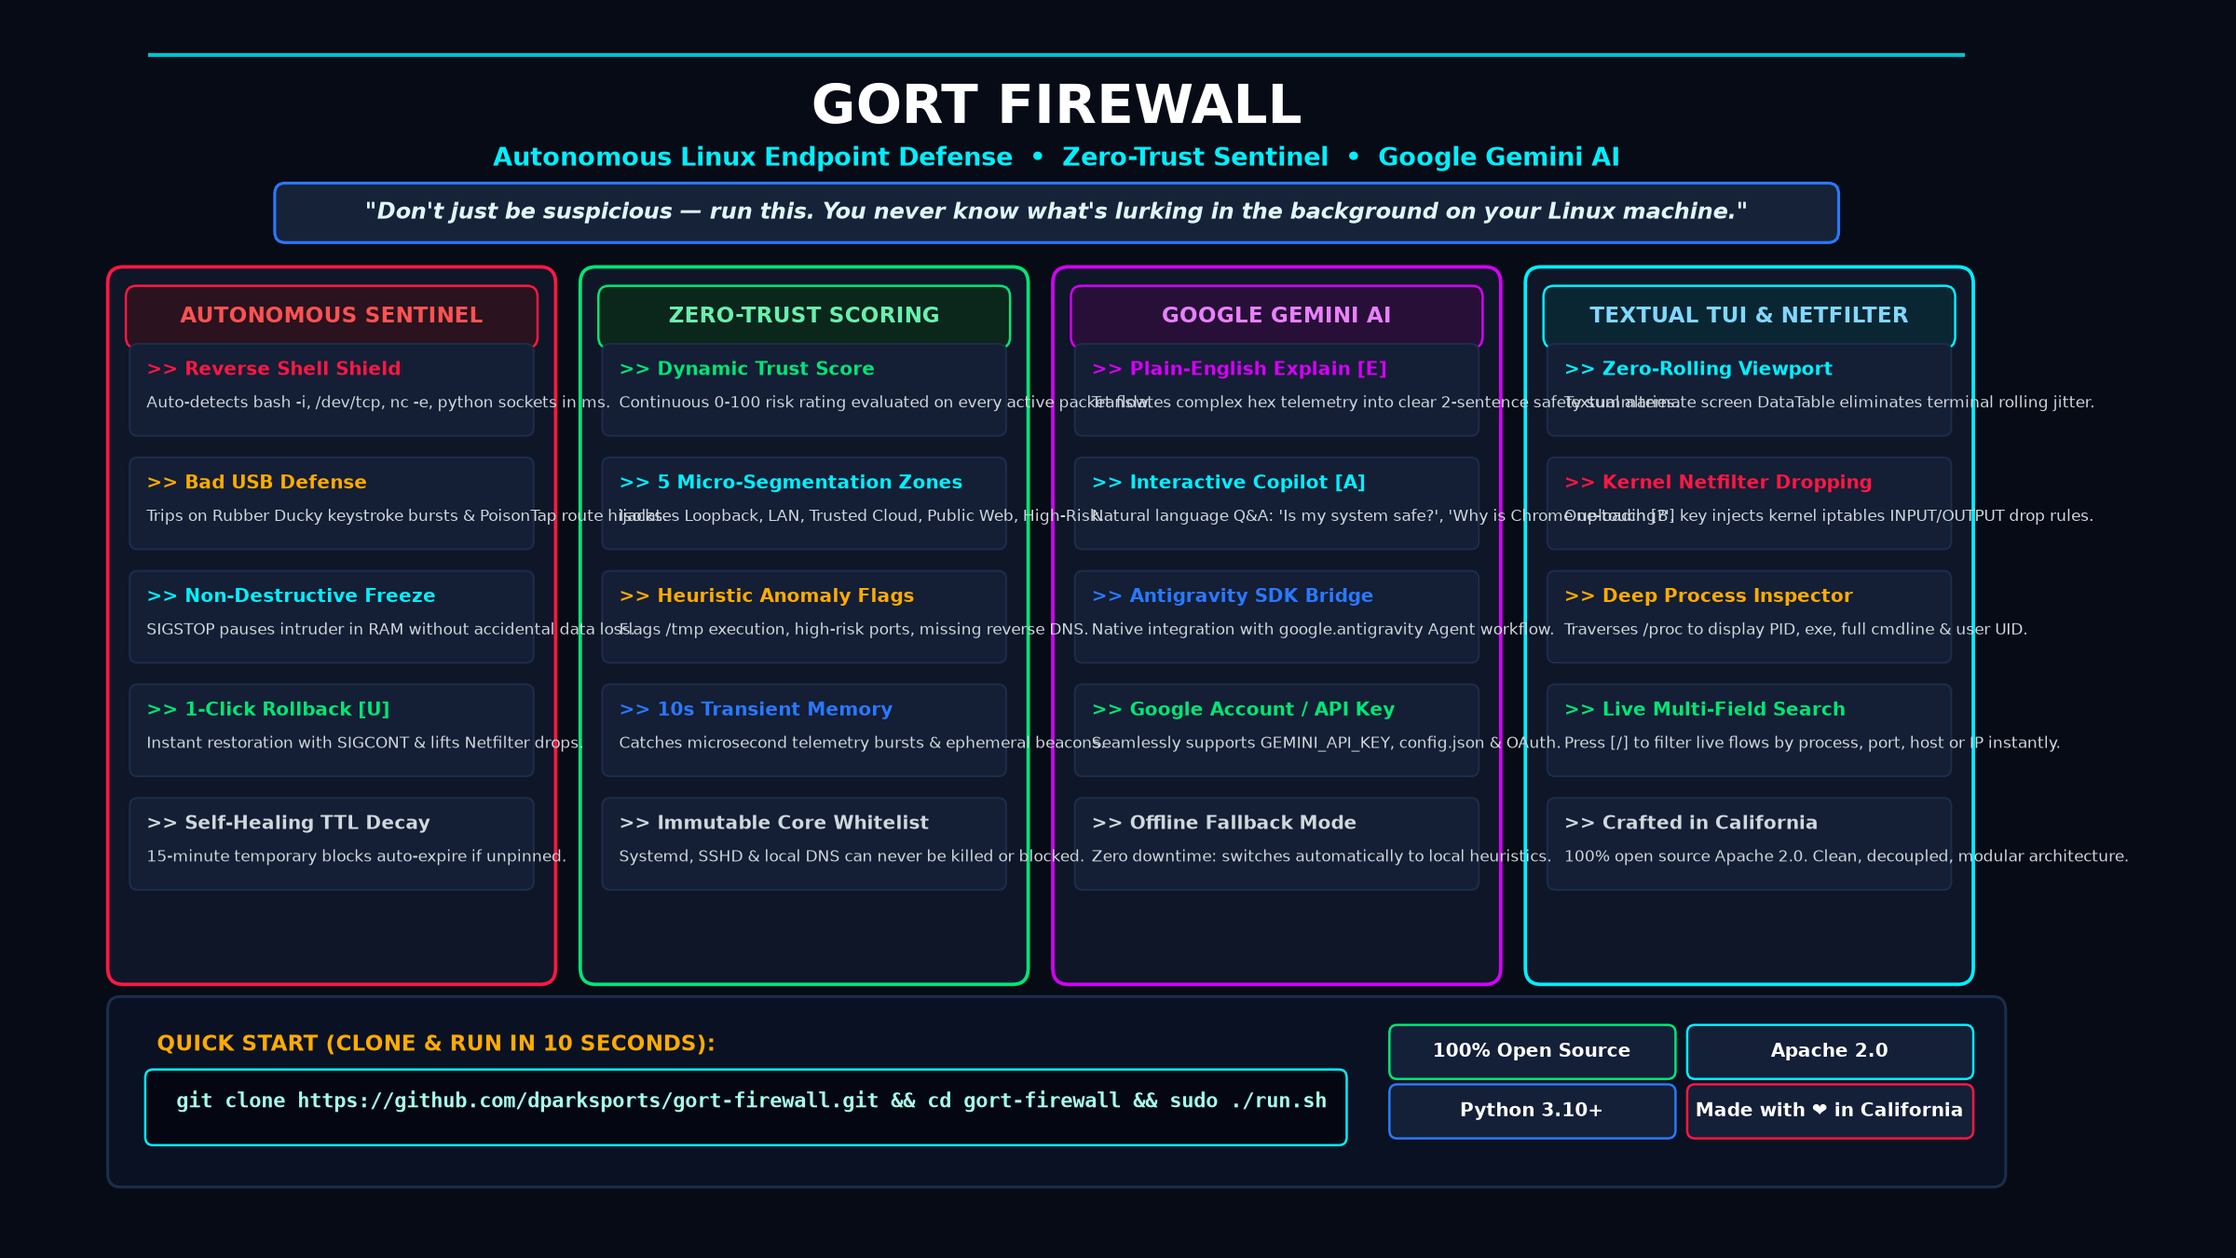
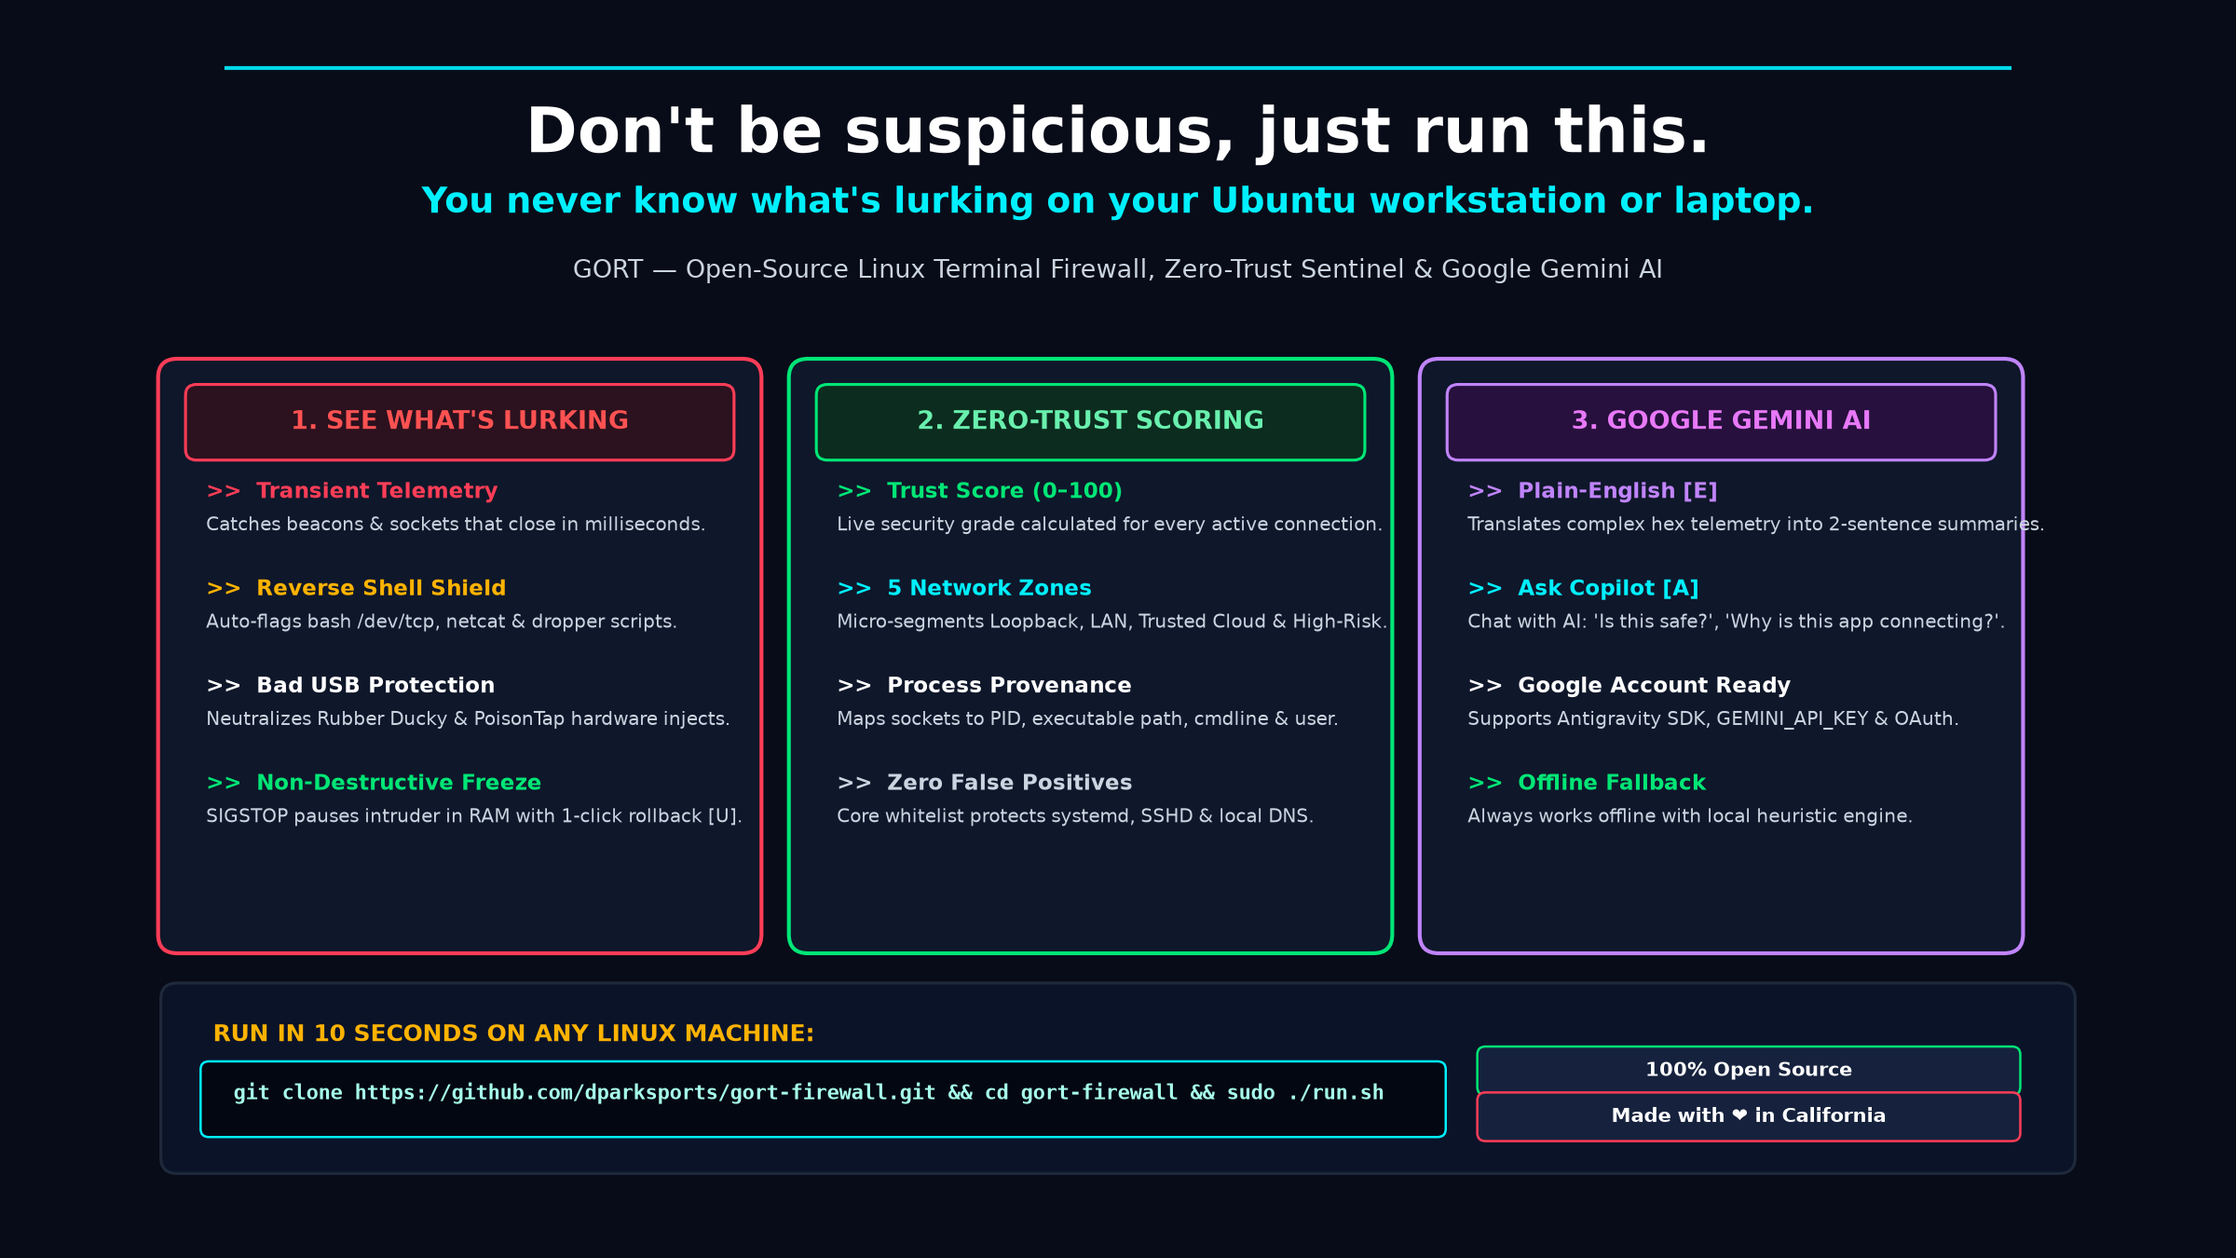
docs: simplify LinkedIn infographic focusing on core user hook

Changed region(s): [[0.0312, 0.0311, 0.9375, 0.9333]]

diff --git a/generate_linkedin_infographic.py b/generate_linkedin_infographic.py
@@ -1,212 +1,155 @@
 #!/usr/bin/env python3
 """
-Generate a professional-grade LinkedIn Infographic for Gort Firewall.
-Outputs: linkedin_infographic.png (1920x1080, 16:9 4K-ready presentation asset)
+Generate a simplified, high-impact corporate LinkedIn Infographic for Gort Firewall.
+Centered on the core theme:
+"Don't be suspicious, just run this. You never know what's lurking on your Ubuntu workstation or laptop."
+Outputs: linkedin_infographic.png (1920x1080, 16:9 4K presentation asset)
 """
 
 import matplotlib.pyplot as plt
 import matplotlib.patches as patches
 
-def draw_linkedin_infographic():
-    # 1920x1080 16:9 ultra-high clarity layout
+def draw_simplified_infographic():
     fig, ax = plt.subplots(figsize=(16, 9), dpi=150)
-    fig.patch.set_facecolor('#070b16')  # Ultra dark obsidian
-    ax.set_facecolor('#070b16')
+    fig.patch.set_facecolor('#080c18')  # Deep obsidian
+    ax.set_facecolor('#080c18')
     ax.set_xlim(0, 1600)
     ax.set_ylim(0, 900)
     ax.axis('off')
 
-    # Color System
+    # Color Palette
     cyan = '#00f0ff'
-    neon_blue = '#2979ff'
     emerald = '#00e676'
-    amber = '#ffab00'
-    coral = '#ff1744'
-    purple = '#d500f9'
+    coral = '#ff3d57'
+    purple = '#c084fc'
+    amber = '#ffb300'
     text_white = '#ffffff'
-    text_sub = '#cfd8dc'
-    text_muted = '#78909c'
-    card_bg = '#0e1628'
-    card_border = '#1c2d4a'
-    card_inner = '#141e34'
+    text_sub = '#cbd5e1'
+    card_bg = '#0f172a'
+    card_border = '#1e293b'
 
-    # --- TOP BRANDING HEADER ---
-    # Top Accent Glow Line
-    ax.plot([100, 1500], [875, 875], color=cyan, linewidth=2, alpha=0.8)
+    # Top Brand Bar
+    ax.plot([150, 1450], [865, 865], color=cyan, linewidth=2, alpha=0.9)
 
-    # Main Logo / Title
-    ax.text(800, 835, "GORT FIREWALL", fontsize=28, fontweight='bold',
+    # Main Headline (User's One-Liner in Large Bold Typography)
+    ax.text(800, 815, "Don't be suspicious, just run this.", fontsize=32, fontweight='bold',
             color=text_white, ha='center', va='center', fontfamily='sans-serif')
-    ax.text(800, 798, "Autonomous Linux Endpoint Defense  •  Zero-Trust Sentinel  •  Google Gemini AI",
-            fontsize=13, fontweight='bold', color=cyan, ha='center', va='center')
+    ax.text(800, 765, "You never know what's lurking on your Ubuntu workstation or laptop.",
+            fontsize=18, fontweight='bold', color=cyan, ha='center', va='center')
 
-    # Hook Banner (Highlighted Callout)
-    hook_box = patches.FancyBboxPatch((200, 740), 1200, 36, boxstyle="round,pad=4,rounding_size=8",
-                                     facecolor='#162238', edgecolor=neon_blue, linewidth=1.5)
-    ax.add_patch(hook_box)
-    ax.text(800, 758, "\"Don't just be suspicious — run this. You never know what's lurking in the background on your Linux machine.\"",
-            fontsize=11.5, fontweight='bold', fontstyle='italic', color='#e0f7fa', ha='center', va='center')
+    # Sub-tagline
+    ax.text(800, 715, "GORT — Open-Source Linux Terminal Firewall, Zero-Trust Sentinel & Google Gemini AI",
+            fontsize=13, color=text_sub, ha='center', va='center')
 
-    # --- 4 KEY PILLAR CARDS ---
-    card_w = 330
-    card_h = 515
-    y_pos = 195
-    spacing = 365
-    start_x = 75
+    # --- 3 SIMPLE, CLEAN CARDS ---
+    card_w = 420
+    card_h = 420
+    y_pos = 220
+    spacing = 460
+    start_x = 110
 
-    # Card 1: Autonomous Sentinel & Bad USB
+    # Card 1: What's Lurking?
     c1_x = start_x + 0 * spacing
-    c1 = patches.FancyBboxPatch((c1_x, y_pos), card_w, card_h, boxstyle="round,pad=8,rounding_size=12",
-                                facecolor=card_bg, edgecolor=coral, linewidth=1.8)
+    c1 = patches.FancyBboxPatch((c1_x, y_pos), card_w, card_h, boxstyle="round,pad=10,rounding_size=14",
+                                facecolor=card_bg, edgecolor=coral, linewidth=2)
     ax.add_patch(c1)
 
-    # Header 1
-    h1 = patches.FancyBboxPatch((c1_x + 10, y_pos + card_h - 48), card_w - 20, 38,
-                                boxstyle="round,pad=4,rounding_size=8",
-                                facecolor='#2a121e', edgecolor=coral, linewidth=1.2)
+    h1 = patches.FancyBboxPatch((c1_x + 15, y_pos + card_h - 60), card_w - 30, 46,
+                                boxstyle="round,pad=5,rounding_size=8",
+                                facecolor='#2c111e', edgecolor=coral, linewidth=1.5)
     ax.add_patch(h1)
-    ax.text(c1_x + card_w/2, y_pos + card_h - 29, "AUTONOMOUS SENTINEL", fontsize=11, fontweight='bold',
+    ax.text(c1_x + card_w/2, y_pos + card_h - 37, "1. SEE WHAT'S LURKING", fontsize=13, fontweight='bold',
             color='#ff5252', ha='center', va='center')
 
-    c1_bullets = [
-        ("Reverse Shell Shield", "Auto-detects bash -i, /dev/tcp, nc -e, python sockets in ms.", coral),
-        ("Bad USB Defense", "Trips on Rubber Ducky keystroke bursts & PoisonTap route hijacks.", amber),
-        ("Non-Destructive Freeze", "SIGSTOP pauses intruder in RAM without accidental data loss.", cyan),
-        ("1-Click Rollback [U]", "Instant restoration with SIGCONT & lifts Netfilter drops.", emerald),
-        ("Self-Healing TTL Decay", "15-minute temporary blocks auto-expire if unpinned.", text_sub),
+    bullets_1 = [
+        ("Transient Telemetry", "Catches beacons & sockets that close in milliseconds.", coral),
+        ("Reverse Shell Shield", "Auto-flags bash /dev/tcp, netcat & dropper scripts.", amber),
+        ("Bad USB Protection", "Neutralizes Rubber Ducky & PoisonTap hardware injects.", text_white),
+        ("Non-Destructive Freeze", "SIGSTOP pauses intruder in RAM with 1-click rollback [U].", emerald),
     ]
-
-    for idx, (title, desc, clr) in enumerate(c1_bullets):
-        by = y_pos + card_h - 90 - (idx * 84)
-        b_box = patches.FancyBboxPatch((c1_x + 12, by - 24), card_w - 24, 62,
-                                       boxstyle="round,pad=3,rounding_size=6",
-                                       facecolor=card_inner, edgecolor=card_border, linewidth=1)
-        ax.add_patch(b_box)
-        ax.text(c1_x + 22, by + 18, f">> {title}", fontsize=9.5, fontweight='bold', color=clr)
-        ax.text(c1_x + 22, by - 6, desc, fontsize=8, color=text_sub, wrap=True)
+    for idx, (title, desc, clr) in enumerate(bullets_1):
+        by = y_pos + card_h - 105 - (idx * 72)
+        ax.text(c1_x + 25, by + 12, f">>  {title}", fontsize=11, fontweight='bold', color=clr)
+        ax.text(c1_x + 25, by - 12, desc, fontsize=9.5, color=text_sub)
 
     # Card 2: Zero-Trust Continuous Verification
     c2_x = start_x + 1 * spacing
-    c2 = patches.FancyBboxPatch((c2_x, y_pos), card_w, card_h, boxstyle="round,pad=8,rounding_size=12",
-                                facecolor=card_bg, edgecolor=emerald, linewidth=1.8)
+    c2 = patches.FancyBboxPatch((c2_x, y_pos), card_w, card_h, boxstyle="round,pad=10,rounding_size=14",
+                                facecolor=card_bg, edgecolor=emerald, linewidth=2)
     ax.add_patch(c2)
 
-    h2 = patches.FancyBboxPatch((c2_x + 10, y_pos + card_h - 48), card_w - 20, 38,
-                                boxstyle="round,pad=4,rounding_size=8",
-                                facecolor='#0b261b', edgecolor=emerald, linewidth=1.2)
+    h2 = patches.FancyBboxPatch((c2_x + 15, y_pos + card_h - 60), card_w - 30, 46,
+                                boxstyle="round,pad=5,rounding_size=8",
+                                facecolor='#0b2c1e', edgecolor=emerald, linewidth=1.5)
     ax.add_patch(h2)
-    ax.text(c2_x + card_w/2, y_pos + card_h - 29, "ZERO-TRUST SCORING", fontsize=11, fontweight='bold',
+    ax.text(c2_x + card_w/2, y_pos + card_h - 37, "2. ZERO-TRUST SCORING", fontsize=13, fontweight='bold',
             color='#69f0ae', ha='center', va='center')
 
-    c2_bullets = [
-        ("Dynamic Trust Score", "Continuous 0-100 risk rating evaluated on every active packet flow.", emerald),
-        ("5 Micro-Segmentation Zones", "Isolates Loopback, LAN, Trusted Cloud, Public Web, High-Risk.", cyan),
-        ("Heuristic Anomaly Flags", "Flags /tmp execution, high-risk ports, missing reverse DNS.", amber),
-        ("10s Transient Memory", "Catches microsecond telemetry bursts & ephemeral beacons.", neon_blue),
-        ("Immutable Core Whitelist", "Systemd, SSHD & local DNS can never be killed or blocked.", text_sub),
+    bullets_2 = [
+        ("Trust Score (0–100)", "Live security grade calculated for every active connection.", emerald),
+        ("5 Network Zones", "Micro-segments Loopback, LAN, Trusted Cloud & High-Risk.", cyan),
+        ("Process Provenance", "Maps sockets to PID, executable path, cmdline & user.", text_white),
+        ("Zero False Positives", "Core whitelist protects systemd, SSHD & local DNS.", text_sub),
     ]
-
-    for idx, (title, desc, clr) in enumerate(c2_bullets):
-        by = y_pos + card_h - 90 - (idx * 84)
-        b_box = patches.FancyBboxPatch((c2_x + 12, by - 24), card_w - 24, 62,
-                                       boxstyle="round,pad=3,rounding_size=6",
-                                       facecolor=card_inner, edgecolor=card_border, linewidth=1)
-        ax.add_patch(b_box)
-        ax.text(c2_x + 22, by + 18, f">> {title}", fontsize=9.5, fontweight='bold', color=clr)
-        ax.text(c2_x + 22, by - 6, desc, fontsize=8, color=text_sub, wrap=True)
+    for idx, (title, desc, clr) in enumerate(bullets_2):
+        by = y_pos + card_h - 105 - (idx * 72)
+        ax.text(c2_x + 25, by + 12, f">>  {title}", fontsize=11, fontweight='bold', color=clr)
+        ax.text(c2_x + 25, by - 12, desc, fontsize=9.5, color=text_sub)
 
     # Card 3: Google Gemini AI Copilot
     c3_x = start_x + 2 * spacing
-    c3 = patches.FancyBboxPatch((c3_x, y_pos), card_w, card_h, boxstyle="round,pad=8,rounding_size=12",
-                                facecolor=card_bg, edgecolor=purple, linewidth=1.8)
+    c3 = patches.FancyBboxPatch((c3_x, y_pos), card_w, card_h, boxstyle="round,pad=10,rounding_size=14",
+                                facecolor=card_bg, edgecolor=purple, linewidth=2)
     ax.add_patch(c3)
 
-    h3 = patches.FancyBboxPatch((c3_x + 10, y_pos + card_h - 48), card_w - 20, 38,
-                                boxstyle="round,pad=4,rounding_size=8",
-                                facecolor='#270f38', edgecolor=purple, linewidth=1.2)
+    h3 = patches.FancyBboxPatch((c3_x + 15, y_pos + card_h - 60), card_w - 30, 46,
+                                boxstyle="round,pad=5,rounding_size=8",
+                                facecolor='#27103d', edgecolor=purple, linewidth=1.5)
     ax.add_patch(h3)
-    ax.text(c3_x + card_w/2, y_pos + card_h - 29, "GOOGLE GEMINI AI", fontsize=11, fontweight='bold',
-            color='#ea80fc', ha='center', va='center')
+    ax.text(c3_x + card_w/2, y_pos + card_h - 37, "3. GOOGLE GEMINI AI", fontsize=13, fontweight='bold',
+            color='#e879f9', ha='center', va='center')
 
-    c3_bullets = [
-        ("Plain-English Explain [E]", "Translates complex hex telemetry into clear 2-sentence safety summaries.", purple),
-        ("Interactive Copilot [A]", "Natural language Q&A: 'Is my system safe?', 'Why is Chrome uploading?'.", cyan),
-        ("Antigravity SDK Bridge", "Native integration with google.antigravity Agent workflow.", neon_blue),
-        ("Google Account / API Key", "Seamlessly supports GEMINI_API_KEY, config.json & OAuth.", emerald),
-        ("Offline Fallback Mode", "Zero downtime: switches automatically to local heuristics.", text_sub),
+    bullets_3 = [
+        ("Plain-English [E]", "Translates complex hex telemetry into 2-sentence summaries.", purple),
+        ("Ask Copilot [A]", "Chat with AI: 'Is this safe?', 'Why is this app connecting?'.", cyan),
+        ("Google Account Ready", "Supports Antigravity SDK, GEMINI_API_KEY & OAuth.", text_white),
+        ("Offline Fallback", "Always works offline with local heuristic engine.", emerald),
     ]
+    for idx, (title, desc, clr) in enumerate(bullets_3):
+        by = y_pos + card_h - 105 - (idx * 72)
+        ax.text(c3_x + 25, by + 12, f">>  {title}", fontsize=11, fontweight='bold', color=clr)
+        ax.text(c3_x + 25, by - 12, desc, fontsize=9.5, color=text_sub)
 
-    for idx, (title, desc, clr) in enumerate(c3_bullets):
-        by = y_pos + card_h - 90 - (idx * 84)
-        b_box = patches.FancyBboxPatch((c3_x + 12, by - 24), card_w - 24, 62,
-                                       boxstyle="round,pad=3,rounding_size=6",
-                                       facecolor=card_inner, edgecolor=card_border, linewidth=1)
-        ax.add_patch(b_box)
-        ax.text(c3_x + 22, by + 18, f">> {title}", fontsize=9.5, fontweight='bold', color=clr)
-        ax.text(c3_x + 22, by - 6, desc, fontsize=8, color=text_sub, wrap=True)
+    # --- BOTTOM CLEAN COMMAND BAR ---
+    bot_box = patches.FancyBboxPatch((110, 55), 1380, 125, boxstyle="round,pad=8,rounding_size=12",
+                                     facecolor='#0b1329', edgecolor=card_border, linewidth=1.5)
+    ax.add_patch(bot_box)
 
-    # Card 4: Modern Modular Textual TUI & Netfilter
-    c4_x = start_x + 3 * spacing
-    c4 = patches.FancyBboxPatch((c4_x, y_pos), card_w, card_h, boxstyle="round,pad=8,rounding_size=12",
-                                facecolor=card_bg, edgecolor=cyan, linewidth=1.8)
-    ax.add_patch(c4)
+    ax.text(140, 145, "RUN IN 10 SECONDS ON ANY LINUX MACHINE:", fontsize=12, fontweight='bold', color=amber)
 
-    h4 = patches.FancyBboxPatch((c4_x + 10, y_pos + card_h - 48), card_w - 20, 38,
-                                boxstyle="round,pad=4,rounding_size=8",
-                                facecolor='#0b2633', edgecolor=cyan, linewidth=1.2)
-    ax.add_patch(h4)
-    ax.text(c4_x + card_w/2, y_pos + card_h - 29, "TEXTUAL TUI & NETFILTER", fontsize=11, fontweight='bold',
-            color='#80d8ff', ha='center', va='center')
-
-    c4_bullets = [
-        ("Zero-Rolling Viewport", "Textual alternate screen DataTable eliminates terminal rolling jitter.", cyan),
-        ("Kernel Netfilter Dropping", "One-touch [B] key injects kernel iptables INPUT/OUTPUT drop rules.", coral),
-        ("Deep Process Inspector", "Traverses /proc to display PID, exe, full cmdline & user UID.", amber),
-        ("Live Multi-Field Search", "Press [/] to filter live flows by process, port, host or IP instantly.", emerald),
-        ("Crafted in California", "100% open source Apache 2.0. Clean, decoupled, modular architecture.", text_sub),
-    ]
-
-    for idx, (title, desc, clr) in enumerate(c4_bullets):
-        by = y_pos + card_h - 90 - (idx * 84)
-        b_box = patches.FancyBboxPatch((c4_x + 12, by - 24), card_w - 24, 62,
-                                       boxstyle="round,pad=3,rounding_size=6",
-                                       facecolor=card_inner, edgecolor=card_border, linewidth=1)
-        ax.add_patch(b_box)
-        ax.text(c4_x + 22, by + 18, f">> {title}", fontsize=9.5, fontweight='bold', color=clr)
-        ax.text(c4_x + 22, by - 6, desc, fontsize=8, color=text_sub, wrap=True)
-
-    # --- BOTTOM QUICK-LAUNCH & BADGE FOOTER ---
-    footer_box = patches.FancyBboxPatch((75, 45), 1450, 125, boxstyle="round,pad=8,rounding_size=10",
-                                        facecolor='#0a1122', edgecolor=card_border, linewidth=1.5)
-    ax.add_patch(footer_box)
-
-    ax.text(105, 138, "QUICK START (CLONE & RUN IN 10 SECONDS):", fontsize=11, fontweight='bold', color=amber)
-
-    cmd_box = patches.FancyBboxPatch((100, 72), 920, 48, boxstyle="round,pad=4,rounding_size=6",
-                                     facecolor='#040711', edgecolor=cyan, linewidth=1.2)
+    cmd_box = patches.FancyBboxPatch((135, 78), 900, 48, boxstyle="round,pad=4,rounding_size=6",
+                                     facecolor='#030712', edgecolor=cyan, linewidth=1.2)
     ax.add_patch(cmd_box)
-    ax.text(120, 96, "git clone https://github.com/dparksports/gort-firewall.git && cd gort-firewall && sudo ./run.sh",
+    ax.text(155, 102, "git clone https://github.com/dparksports/gort-firewall.git && cd gort-firewall && sudo ./run.sh",
             fontsize=10.5, fontfamily='monospace', fontweight='bold', color='#a7ffeb')
 
-    # Badges on bottom right
+    # Badges
     badges = [
         ("100% Open Source", emerald),
-        ("Apache 2.0", cyan),
-        ("Python 3.10+", neon_blue),
         ("Made with ❤ in California", coral)
     ]
     for i, (b_text, b_color) in enumerate(badges):
-        bx = 1060 + (i % 2) * 230
-        by = 120 if i < 2 else 76
-        b_rect = patches.FancyBboxPatch((bx, by), 215, 34, boxstyle="round,pad=3,rounding_size=6",
-                                        facecolor='#141f38', edgecolor=b_color, linewidth=1.2)
+        bx = 1065
+        by = 108 if i == 0 else 74
+        b_rect = patches.FancyBboxPatch((bx, by), 390, 30, boxstyle="round,pad=3,rounding_size=6",
+                                        facecolor='#16223d', edgecolor=b_color, linewidth=1.2)
         ax.add_patch(b_rect)
-        ax.text(bx + 107, by + 17, b_text, fontsize=9.5, fontweight='bold', color=text_white, ha='center', va='center')
+        ax.text(bx + 195, by + 15, b_text, fontsize=10, fontweight='bold', color=text_white, ha='center', va='center')
 
     plt.tight_layout()
     plt.savefig('linkedin_infographic.png', dpi=150, facecolor=fig.get_facecolor(), edgecolor='none')
     plt.close()
-    print("Generated linkedin_infographic.png successfully!")
+    print("Generated simplified linkedin_infographic.png successfully!")
 
 if __name__ == '__main__':
-    draw_linkedin_infographic()
+    draw_simplified_infographic()
